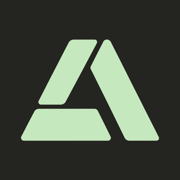
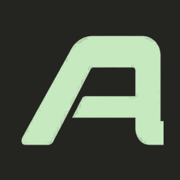
feat(site): replace branding with ANS Studio lettermark
Use the new ANS STUDIO lettermark in the desktop rail and footer,
switch to the compact ANS lettermark in the mobile bar, and recompose
the favicon and apple-touch-icon from the new A mark. Remove the
previous geometric-A assets and record the source files, crop, and
local verification in the promotion role docs.

Changed region(s): [[0.1111, 0.1944, 0.9167, 0.8056]]

diff --git a/site/en/index.html b/site/en/index.html
@@ -61,8 +61,10 @@
 
   <header class="rail">
     <a class="brand" href="#top" aria-label="ANS Studio, back to top">
-      <img src="../assets/ans-a-mint.png" alt="" width="512" height="512">
-      <span class="brand-word">ans</span>
+      <picture>
+        <source media="(max-width: 1023px)" srcset="../assets/ans-lettermark-mint.png">
+        <img src="../assets/ans-studio-lettermark-mint.png" alt="" width="649" height="240">
+      </picture>
     </a>
     <nav class="rail-nav" aria-label="Page navigation">
       <ul>
@@ -403,9 +405,9 @@
   <footer class="footer">
     <div class="wrap footer-grid">
       <div class="footer-brand">
-        <img src="../assets/ans-a-mint.png" alt="" width="512" height="512">
+        <img src="../assets/ans-studio-lettermark-mint.png" alt="" width="649" height="240">
         <div>
-          <p class="footer-name">ANS Studio · <a href="https://github.com/wangzhongren/ans-studio/blob/main/LICENSE" rel="noopener">MIT License</a></p>
+          <p class="footer-name"><a href="https://github.com/wangzhongren/ans-studio/blob/main/LICENSE" rel="noopener">MIT License</a></p>
           <p class="footer-en">An Autonomous Organization Runtime for AI Agents.</p>
         </div>
       </div>

diff --git a/site/index.html b/site/index.html
@@ -60,8 +60,10 @@
 
   <header class="rail">
     <a class="brand" href="#top" aria-label="ANS Studio，回到页面顶部">
-      <img src="assets/ans-a-mint.png" alt="" width="512" height="512">
-      <span class="brand-word">ans</span>
+      <picture>
+        <source media="(max-width: 1023px)" srcset="assets/ans-lettermark-mint.png">
+        <img src="assets/ans-studio-lettermark-mint.png" alt="" width="649" height="240">
+      </picture>
     </a>
     <nav class="rail-nav" aria-label="页面导航">
       <ul>
@@ -401,9 +403,9 @@
   <footer class="footer">
     <div class="wrap footer-grid">
       <div class="footer-brand">
-        <img src="assets/ans-a-mint.png" alt="" width="512" height="512">
+        <img src="assets/ans-studio-lettermark-mint.png" alt="" width="649" height="240">
         <div>
-          <p class="footer-name">ANS Studio · <a href="https://github.com/wangzhongren/ans-studio/blob/main/LICENSE" rel="noopener">MIT 许可证</a></p>
+          <p class="footer-name"><a href="https://github.com/wangzhongren/ans-studio/blob/main/LICENSE" rel="noopener">MIT 许可证</a></p>
           <p class="footer-en">An Autonomous Organization Runtime for AI Agents.</p>
         </div>
       </div>

diff --git a/site/styles.css b/site/styles.css
@@ -121,24 +121,22 @@ img {
 .brand {
   display: flex;
   align-items: center;
-  gap: 10px;
+  min-height: 44px;
   color: var(--text);
   text-decoration: none;
-  padding: 2px 6px;
+  padding: 0 10px;
+}
+
+.brand picture {
+  display: block;
 }
 
 .brand img {
   display: block;
-  width: 34px;
-  height: 34px;
-}
-
-.brand-word {
-  font-size: 21px;
-  font-weight: 600;
-  line-height: 1;
-  letter-spacing: 0.01em;
-  padding-bottom: 2px;
+  width: auto;
+  height: 38px;
+  max-width: 120px;
+  object-fit: contain;
 }
 
 .rail-nav {
@@ -1013,8 +1011,11 @@ h3 {
 }
 
 .footer-brand img {
-  width: 40px;
-  height: 40px;
+  display: block;
+  width: auto;
+  height: 42px;
+  max-width: 150px;
+  object-fit: contain;
 }
 
 .footer-name {
@@ -1084,12 +1085,8 @@ h3 {
   }
 
   .brand img {
-    width: 28px;
-    height: 28px;
-  }
-
-  .brand-word {
-    font-size: 18px;
+    height: 26px;
+    max-width: 112px;
   }
 
   .rail-nav {

diff --git a/角色卡/宣传/docs/feature/project-site.md b/角色卡/宣传/docs/feature/project-site.md
@@ -26,6 +26,9 @@ events:
   - date: "2026-10-21"
     kind: deployed
     summary: 品牌图标随 77c5143 部署上线；角色文档随 2983402 入库
+  - date: "2026-10-21"
+    kind: implemented
+    summary: 品牌位与 favicon 替换为 ANS STUDIO 字标；本地验证，未部署
 ---
 
 # 项目官网（GitHub Pages）
@@ -36,7 +39,7 @@ events:
 
 提供两个语言版本，共享同一套样式、脚本与素材，可互相切换：中文 `site/index.html`（`/`）与英文 `site/en/index.html`（`/en/`）。
 
-当前状态：中文站已部署上线（2026-10-21，协调方提交 `f87eb134` 并 push 触发部署，run `39541758607` 成功，线上页面与本地字节一致；发布事实见[变更记录](../change/2026-10-21_change_project-site.md)）。英文版、双语切换、hreflang 与双语 sitemap 也已由协调方提交并部署（commit `b00bc74`，run `39545903589` 成功；线上 `/` 与 `/en/` 均与本地字节一致，见[英文版变更记录](../change/2026-10-21_change_english-site.md)）。品牌图标已按客户 2026-10-21 提供的新 logo 替换为几何 A 并随 commit `77c5143` 部署上线（run `39546983969` 成功；见[品牌图标变更记录](../change/2026-10-21_change_logo-assets.md)）。角色文档已随提交 `2983402` 入库，品牌图标变更随 `77c5143` 入库。
+当前状态：中文站已部署上线（2026-10-21，协调方提交 `f87eb134` 并 push 触发部署，run `39541758607` 成功，线上页面与本地字节一致；发布事实见[变更记录](../change/2026-10-21_change_project-site.md)）。英文版、双语切换、hreflang 与双语 sitemap 也已由协调方提交并部署（commit `b00bc74`，run `39545903589` 成功；线上 `/` 与 `/en/` 均与本地字节一致，见[英文版变更记录](../change/2026-10-21_change_english-site.md)）。品牌图标先按客户 2026-10-21 的几何 A 替换并随 commit `77c5143` 部署上线（run `39546983969` 成功；见[几何 A 变更记录](../change/2026-10-21_change_logo-assets.md)）；当日稍后客户再次更换图标，站点品牌位已改为 **ANS STUDIO 字标**（桌面完整字标、移动紧凑 ANS、favicon 取自字标 A；本地验证，尚未部署，线上仍为几何 A 版；见[字标变更记录](../change/2026-10-21_change_lettermark-logo.md)）。角色文档已随提交 `2983402` 入库，几何 A 变更随 `77c5143` 入库。
 
 ## 页面结构
 
@@ -72,17 +75,18 @@ flowchart TD
 | `site/styles.css` | 颜色/字体 token、账本布局、语言切换、响应式、加载编排、reduced-motion |
 | `site/app.js` | 仅导航高亮；异常捕获，不影响内容 |
 | `site/assets/desktop-intent-confirm.png` | 真实桌面截图（1360×980，原图复制） |
-| `site/assets/ans-a-mint.png` | 薄荷绿几何 A 品牌标识 512×512（账本栏与页脚） |
-| `site/assets/ans-a-graphite.png` | 石墨几何 A 512×512；站点未引用，保留给浅色场景/未来使用 |
-| `site/assets/favicon.png` / `apple-touch-icon.png` | 石墨底薄荷绿 A 的 64px favicon 与 180px 触屏图标（浅/深浏览器栏均可辨） |
+| `site/assets/ans-studio-lettermark-mint.png` | ANS STUDIO 完整薄荷字标 649×240（桌面账本栏 38px、页脚 42px） |
+| `site/assets/ans-lettermark-mint.png` | 紧凑 ANS 薄荷字标 572×160（移动顶栏 26px，`<picture>` 自动切换） |
+| `site/assets/ans-studio-lettermark-graphite.png` / `ans-studio-lettermark-white.png` | 同形石墨/白色字标 649×240；站点未引用，保留给浅色/未来场景 |
+| `site/assets/favicon.png` / `apple-touch-icon.png` | 石墨底 + 薄荷 A（取自字标）的 64px favicon 与 180px 触屏图标 |
 | `site/robots.txt` / `sitemap.xml` / `.nojekyll` | 抓取（双语 sitemap 含 xhtml alternate）与 Pages 约定 |
 
 ## 品牌资产与如何更换 logo
 
-- 源文件：`app/desktop/assets/ans-geometric-a-mint.png`（薄荷绿，透明底，1254×1254）与 `ans-geometric-a-graphite.png`（石墨版，与 `output/branding/ans-studio-icon-graphite.png` 字节相同）。两者只读引用，不复制回源目录。
-- 站点使用：深色界面用薄荷 A（`.brand img` 桌面 34px / 移动 28px，`.footer-brand img` 40px，均无 `border-radius`）；石墨 A 保留给浅色场景/未来使用，当前未被引用。
-- 生成方式：以图形中心裁 1100×1100（源图 offset x=77、y=110，alpha 边界 x110–1144 / y282–1039），等比缩放到 512×512；favicon 为 512 画布 `#1b1b18` 底 + 薄荷 A 420×420 居中（约 9% 内边距），再缩到 64 与 180。可用 Electron `nativeImage.crop/resize` 或 CoreGraphics 实现，**不要拉伸**。
-- 替换步骤：放入新源图 → 按上述参数生成 `ans-a-mint.png`、`ans-a-graphite.png`、`favicon.png`、`apple-touch-icon.png` → 两页的 `.brand img`、`.footer-brand img` 与 `<link rel="icon" / apple-touch-icon>` 保持指向同名文件即可 → 重新截图核对深浅底观感与 16px 可辨性。Role-first 印章的括号符号与截图四角括号是“边界”的结构符号，不是品牌图标，替换 logo 时不要动。
+- 当前品牌：**ANS STUDIO 字标**（2026-10-21 第二次替换）。源文件为 `app/desktop/assets/ans-studio-lettermark-mint.png`（完整横版，含 STUDIO 小字）、`ans-lettermark-mint.png`（仅 ANS 紧凑版），以及同形 graphite/white 版本。源文件只读，不复制回源目录。
+- 站点使用：桌面账本栏与页脚用完整薄荷字标（`.brand img` 高 38px、`.footer-brand img` 高 42px，宽度按比例），移动顶栏通过 `<picture><source media="(max-width: 1023px)">` 切换为紧凑 ANS（高 26px）；页脚文字只保留「MIT 许可证」与英文定位行，避免与字标重复。石墨/白色字标保留给浅色/未来场景，当前未被引用。
+- 生成方式：按 alpha 边界裁掉透明留白（完整字标 864×312，加 6px 内边距）等比缩放到高 240 → 649×240；紧凑字标缩放到高 160 → 572×160。favicon 从紧凑字标取 A 字形（字标中 A 与 N 相连，裁切右缘收到 A 本体 x≈381），石墨底 `#1b1b18` + A 420px 宽居中，输出 64 与 180。**不要拉伸**；可用 Electron `nativeImage.crop/resize` 或 CoreGraphics 实现。
+- 替换步骤：放入新源图 → 按上述参数生成 `ans-studio-lettermark-mint.png`、`ans-lettermark-mint.png`、`favicon.png`、`apple-touch-icon.png`（石墨/白色版按需）→ 两页 `.brand` 的 `<picture>`/`<img>`、`.footer-brand img` 与 `<link rel="icon" / apple-touch-icon>` 保持指向同名文件 → 重新截图核对桌面完整字标（STUDIO 可辨）、移动紧凑字标与 favicon 深浅底观感。Role-first 印章的括号符号与截图四角括号是“边界”的结构符号，不是品牌图标，替换 logo 时不要动。
 
 ## 如何本地预览
 
@@ -132,7 +136,8 @@ python3 -m http.server 8765 --directory site
 ## 已知限制
 
 - 发布由客户/协调方执行：本角色不自行 push、运行工作流或改仓库设置；角色文档已随 `2983402` 入库。
-- favicon 未在真实浏览器标签栏/iOS 主屏实测；品牌位尺寸（34/28/40px）为视觉判断，可按需微调。
+- 2026-10-21 字标替换尚未部署，线上仍为几何 A 版；部署后需复查字标与 favicon。
+- favicon 未在真实浏览器标签栏/iOS 主屏实测；字标品牌位尺寸（桌面 38px / 移动 26px / 页脚 42px）为视觉判断，可按需微调。
 - 双语站点已上线且与本地字节一致（zh `0c83fd8a…`、en `81fadf15…`）；后续改动仍由客户/协调方 push 触发部署。
 - 运行包尚未签名或公证；站点已如实警示，不代替 GitHub Release 的 SHA256 校验。
 - Google Fonts 走外链，被墙时回退系统字体（PingFang SC / 微软雅黑等），版面与可读性保持；无其他外部 JS。
@@ -150,3 +155,4 @@ python3 -m http.server 8765 --directory site
 | 2026-10-21 | 发布 | deployed | 协调方提交 `b00bc74` 并部署英文版与双语导航；线上 `/` 与 `/en/` SHA-256 与本地一致（run `39545903589`） | [英文版变更记录·发布记录](../change/2026-10-21_change_english-site.md) |
 | 2026-10-21 | 变更 | implemented-unverified | 品牌图标替换为几何 A（薄荷绿品牌位、石墨底 favicon、apple-touch-icon）；本地验证通过 | [品牌图标变更记录](../change/2026-10-21_change_logo-assets.md)、[证据](../change/2026-10-21_logo-evidence/) |
 | 2026-10-21 | 发布 | deployed | 协调方提交 `77c5143` 并部署新品牌图标；线上新资产 200、旧 `ans-seal.png` 404，两页 SHA-256 与本地一致（run `39546983969`） | [品牌图标变更记录·发布记录](../change/2026-10-21_change_logo-assets.md) |
+| 2026-10-21 | 变更 | implemented-unverified | 品牌位与 favicon 替换为 ANS STUDIO 字标（桌面完整字标、移动紧凑 ANS、石墨底 A favicon）；本地验证通过，未部署 | [字标变更记录](../change/2026-10-21_change_lettermark-logo.md)、[证据](../change/2026-10-21_lettermark-evidence/) |

diff --git a/角色卡/宣传/docs/change/2026-10-21_change_lettermark-logo.md b/角色卡/宣传/docs/change/2026-10-21_change_lettermark-logo.md
@@ -1,0 +1,104 @@
+---
+id: lettermark-logo
+type: change
+title: 站点品牌位与 favicon 替换为 ANS Studio 字标
+created: "2026-10-21"
+updated: "2026-10-21"
+timezone: Asia/Shanghai
+status: implemented-unverified
+related: [project-site]
+events:
+  - date: "2026-10-21"
+    kind: created
+    summary: 按客户 13:14 下发的字标替换品牌位、favicon 与 apple-touch-icon
+  - date: "2026-10-21"
+    kind: implemented
+    summary: 本地截图、资产、结构与视口检查通过；未推送、未部署
+---
+
+# 站点品牌位与 favicon 替换为 ANS Studio 字标
+
+客户 2026-10-21 再次更换图标（「图标又换了，重新换一下」）。站点品牌位从上一版几何 A 换成新的 **ANS STUDIO 字标**：桌面账本栏与页脚用 13:14 的完整横版字标，移动顶栏用 13:12 的紧凑 `ANS` 字标；favicon 与 apple-touch-icon 从紧凑字标中取 A 字形，继续「石墨底 + 薄荷 A」方案。上一版 `ans-a-mint.png` / `ans-a-graphite.png` 已删除；Role-first 印章括号与截图四角括号保持不变。
+
+**仅本地完成**：线上仍是 `77c5143` 部署的几何 A 版本；本次字标改动**未推送、未部署**。角色文档此前已随 `2983402` / `77c5143` 入库，本轮字标变更记录与站点改动尚未提交。
+
+## 源文件
+
+| 组 | 源（只读） | SHA-256 前缀 | 说明 |
+| --- | --- | --- | --- |
+| 13:14 主标志 | `app/desktop/assets/ans-studio-lettermark-mint.png` | `15f34d64…` | ANS + 小字 STUDIO，1024×1024 透明底 |
+| 13:14 | `ans-studio-lettermark-graphite.png` | `c3dc8c74…` | 同形石墨版 |
+| 13:14 | `ans-studio-lettermark-white.png` | `d00ae2cf…` | 同形白色版 |
+| 13:12 紧凑版 | `ans-lettermark-mint.png` | `de248877…` | 仅 ANS，紧凑场景与 favicon 取形来源 |
+
+实测 alpha 边界（阈值 α>2）：完整字标 x 80–943、y 357–668（864×312，约 2.77:1），平均色 mint ≈ rgb(199,233,192)、graphite ≈ rgb(23,26,22)、white = 255；紧凑字标 x 80–943、y 395–627（864×233，约 3.71:1）。
+
+## 裁切、产物与使用位置
+
+- 完整字标：按 alpha 边界裁掉透明留白（加 6px 内边距），等比缩放到高 240 → `site/assets/ans-studio-lettermark-mint.png`（649×240，`c065a5fb…`）；石墨版 `ans-studio-lettermark-graphite.png`（`055e087e…`）与白色版 `ans-studio-lettermark-white.png`（`c166b7f4…`）同尺寸保留，站点未引用（见下）。
+- 紧凑字标：裁切后缩放到高 160 → `site/assets/ans-lettermark-mint.png`（572×160，`73c4e933…`）。
+- 使用位置：
+  - 桌面账本栏 `.brand`：完整薄荷字标，CSS 高 **38px**（宽约 103px），替代此前「图标 + 独立 `ans` 文字」组合；`<span class="brand-word">` 已移除。
+  - 移动顶栏：`<picture><source media="(max-width: 1023px)" srcset="…ans-lettermark-mint.png">`，同一品牌链接内自动切换为紧凑 ANS，CSS 高 **26px**（宽约 97px）。
+  - 页脚 `.footer-brand`：完整字标，高 **42px**（宽约 114px）；文字从「ANS Studio · MIT 许可证」简化为「MIT 许可证」+ 原英文定位行，避免与字标重复。
+- 未引用但保留：石墨版给浅色场景/未来使用（白底可见），白色版给深色横幅等未来场景；两者均已在文档说明，不参与当前页面。
+- 图形不做拉伸，全部按原始比例缩放；字标宽度由高度与比例自然决定，CSS 加 `object-fit: contain` 兜底。
+
+## favicon / apple-touch-icon 取形
+
+1. 先按任务建议试裁 A 区域（x 60–400、y 350–650）：由于新字标中 **A 与 N 相连**（列投影只有 N/S 之间有明显空隙，连通域分析中 A+N 为同一组件），该裁法在右侧带入 N 的竖笔残片，64px 下呈「A|」，观感不合格。
+2. 放大核对接缝后，把裁切右缘收到 A 本体右缘（x 70–381、y 385–636，312×252），得到干净的 A 字形；512 画布填 `#1b1b18`，A 缩放为 420px 宽（约 82%）居中，再高质量输出 **64×64** `favicon.png`（`d8466861…`）与 **180×180** `apple-touch-icon.png`（`26741063…`）。
+3. 与「完整 ANS 字标缩到 tile 80–85%」方案对比：完整 ANS 在 512/64 下清晰，但 16px 时三字母糊成一块；A 字形在 16px 仍可辨，因此选 A 方案。取舍已用对比图验证并记录在证据中。
+
+## CSS 调整
+
+- `.brand`：`min-height: 44px`、`padding: 0 10px`（与导航文字左对齐），去掉旧的方形图标尺寸与圆角规则；`.brand picture` 为块级，`.brand img` 用 `height/width:auto/max-width/object-fit`。
+- 移动断点：紧凑字标高 26px、最大宽 112px；360px 顶栏（字标 + 语言切换 + `v1.4.0` + GitHub）实测不溢出。
+- `.footer-brand img`：高 42px、宽 auto、最大宽 150px、无圆角；页脚文字块保留英文定位行。
+
+## 验证（真实执行）
+
+```bash
+python3 -m http.server 8765 --directory site
+curl -sS -o /dev/null -w '%{http_code}' http://127.0.0.1:8765/                          # 200
+curl -sS -o /dev/null -w '%{http_code}' http://127.0.0.1:8765/en/                       # 200
+curl -sS -o /dev/null -w '%{http_code}' http://127.0.0.1:8765/assets/ans-studio-lettermark-mint.png  # 200
+curl -sS -o /dev/null -w '%{http_code}' http://127.0.0.1:8765/assets/ans-lettermark-mint.png         # 200
+curl -sS -o /dev/null -w '%{http_code}' http://127.0.0.1:8765/assets/favicon.png         # 200
+curl -sS -o /dev/null -w '%{http_code}' http://127.0.0.1:8765/assets/apple-touch-icon.png # 200
+```
+
+截图（均已用 Read 实看；入档 `2026-10-21_lettermark-evidence/`）：
+
+| 截图 | 观察 |
+| --- | --- |
+| [desktop-hero-zh-1440x1000.png](2026-10-21_lettermark-evidence/desktop-hero-zh-1440x1000.png) | 完整字标在 168px 账本栏内留足呼吸；ANS 清晰、STUDIO 在 38px 下可辨（5 倍放大图 `brand-zoom-5x.png` 确认）；与导航文字左对齐。 |
+| [desktop-hero-en-1440x1000.png](2026-10-21_lettermark-evidence/desktop-hero-en-1440x1000.png) | 英文页同样成立；语言切换/导航未受影响。 |
+| [mobile-hero-zh-360x1000.png](2026-10-21_lettermark-evidence/mobile-hero-zh-360x1000.png) | 紧凑 ANS 字标 + 中文/English + v1.4.0 + GitHub 一行放下。 |
+| [mobile-hero-en-360x1000.png](2026-10-21_lettermark-evidence/mobile-hero-en-360x1000.png) | 英文页同上。 |
+| [favicon-light-dark-test.png](2026-10-21_lettermark-evidence/favicon-light-dark-test.png) | 64/32/16px 在白色与 #202124 上都可见，16px 仍能认出 A；64 石墨字标/白色字标的保留观感也一并展示。 |
+| [desktop-footer-brand-zh.png](2026-10-21_lettermark-evidence/desktop-footer-brand-zh.png) / [desktop-footer-brand-en.png](2026-10-21_lettermark-evidence/desktop-footer-brand-en.png) | 42px 字标与 MIT/英文定位行层级清楚，不再重复 ANS Studio 文案。 |
+| [brand-zoom-5x.png](2026-10-21_lettermark-evidence/brand-zoom-5x.png) | 桌面品牌位 5 倍放大：STUDIO 字母可辨，未糊成块。 |
+
+| 检查 | 方法 | 结果 |
+| --- | --- | --- |
+| 结构 | 两页扫描 | 无缺失本地引用；无重复 id；图片均有 alt；20 个外链 `rel="noopener"` 无遗漏；各 1 个 `<picture>` |
+| 资产尺寸 | `sips` | 完整字标 649×240、紧凑 572×160、favicon 64、apple-touch 180；截图仍 1360×980 |
+| 引用清理 | 对照目录与引用 | 旧 `ans-a-mint.png` / `ans-a-graphite.png` 已删除；仅石墨/白色完整字标未引用（有意保留） |
+| 横向溢出 | CDP 1440/390/360 两页 | `scrollWidth == innerWidth`，越界元素 0 |
+| 移动切换 | 360 截图 | `<picture>` 生效：桌面完整字标、移动仅 ANS |
+
+## 自我批评与修正
+
+1. A 取形第一次按建议范围裁切带入 N 竖笔残片（“A|”），64px 下明显；放大接缝后把右缘收到 A 本体，得到干净字形，并在文档记录原因。
+2. 完整字标含 STUDIO 小字，一度担心 38px 下糊掉；5 倍放大确认字母仍可辨，保留完整字标不降级为紧凑版；移动端才用紧凑 ANS。
+3. 品牌位最初左缘比导航文字靠左 4px，补 `padding: 0 10px` 对齐；页脚去掉重复的“ANS Studio”文字，改为 MIT + 定位行，层级更干净。
+4. 新字标是横版，旧规则里的方形 `border-radius` 与固定 34/28/40px 尺寸全部移除，改为高度 + 等比宽度 + `object-fit: contain`。
+
+## 未做与限制
+
+- **未推送、未部署**：线上仍为 `77c5143` 的几何 A 图标；本轮字标变更与文档未提交。部署由客户/协调方执行。
+- favicon 未在真实浏览器标签栏/iOS 主屏实测；浅/深底与 16/32/64px 为本地模拟图检查。
+- 品牌位尺寸（38/26/42px）为视觉判断；STUDIO 在 1x 屏幕上较小但可辨，2x 屏幕更清晰。
+- favicon 的 A 是从 ANS 字标中裁出的字形（字标中 A/N 相连），不是独立提供的 A 图标；裁切范围与取舍已记录。
+- 外链、事实链接、版本号未动；Role-first 印章与截图四角括号未替换。

diff --git a/角色卡/宣传/memo.md b/角色卡/宣传/memo.md
@@ -13,3 +13,4 @@
 - 2026-10-21 英文版发布（协调方执行）：提交 `b00bc74`（main，`feat(site): add English site and bilingual navigation`，仅 4 个站点文件）并部署成功——run `39545903589` / job `119043890223`，success，34 秒（12:46 Asia/Shanghai）；线上 `/`（`dfd7786b…`）与 `/en/`（`bc6739fa…`）的 HTML SHA-256 均与本地一致，共享资源 200，线上 hreflang 与中文页 English 切换已生效。角色文档后已随提交 2983402 入库。
 - 2026-10-21 品牌图标：按客户新 logo 替换为透明几何 A——品牌位/页脚用薄荷版（512，桌面 34px / 移动 28px / 页脚 40px，去圆角），favicon 为 512 石墨底 `#1b1b18` + 薄荷 A 420 居中后缩到 64，新增 180 apple-touch-icon；`ans-seal.png` 已删，石墨 A（512）未引用但保留给浅色场景。裁切参数 1100×1100 @ (77,110)。两页 1440/390/360 无溢出，favicon 浅/深底与 16px 可辨性已看图；首轮完成时仅本地（随后由协调方发布，见下条）。证据见 docs/change/2026-10-21_logo-evidence/。
 - 2026-10-21 品牌图标发布（协调方执行）：提交 `77c5143`（main，`feat(site): replace brand logo with geometric A mark`，含 site/** 与角色文档）并部署成功——run `39546983969` / job `119047268376`，success，19 秒（12:59 Asia/Shanghai）；线上新资产均 200（mint 33645 / graphite 117834 / favicon 2406 / apple-touch 7777），旧 `ans-seal.png` 404；`/`（`0c83fd8a…`）与 `/en/`（`81fadf15…`）HTML SHA-256 与本地一致。角色文档已随 `2983402` 入库，品牌图标变更随 `77c5143` 入库。
+- 2026-10-21 字标替换（本地）：按客户 13:14 的 ans-studio-lettermark-* 与 13:12 的 ans-lettermark-* 替换——桌面账本栏/页脚用完整薄荷字标（38/42px 高，649×240），移动顶栏用紧凑 ANS（26px，572×160，`<picture>` 切换），页脚文字简化为 MIT + 英文定位行；favicon 从紧凑字标取 A（A/N 相连，裁到 A 本体右缘 x≈381），石墨底 + A 420px 合成后输出 64/180；石墨与白色字标保留未引用。两页 1440/390/360 无溢出，STUDIO 在 38px 下可辨（5 倍放大核对）。仅本地，未推送/未部署（线上仍为几何 A 版）。证据见 docs/change/2026-10-21_lettermark-evidence/。

diff --git a/角色卡/宣传/feature-map.md b/角色卡/宣传/feature-map.md
@@ -10,7 +10,7 @@
 | 英文官网（`/en/`） | 与中文页同结构的英文单页；共享样式、脚本与素材，双向语言切换、hreflang 与双语 sitemap | 已部署：<https://wangzhongren.github.io/ans-studio/en/>（2026-10-21，协调方提交 `b00bc74` 并发布） | [当前说明](docs/feature/project-site.md#双语与语言切换)、[变更记录](docs/change/2026-10-21_change_english-site.md)、[证据](docs/change/2026-10-21_english-site-evidence/) |
 | 官网视觉与信息架构 | 石墨账本式布局、Role-first 印章、真实截图、内容事实映射与验收口径 | 已定稿（随首轮实现） | [设计记录](docs/design/2026-10-21_design_project-site.md) |
 | Pages 发布工作流 | push main 的 `site/**` 变更时构建并部署 GitHub Pages，支持手动触发 | 已创建并成功运行（run `39541758607`，success，19 秒；由 push 触发） | [部署流程](docs/feature/project-site.md#部署流程) |
-| 品牌图标与 favicon | 薄荷绿/石墨几何 A、石墨底 favicon、apple-touch-icon；Role-first 印章与截图四角括号保持不变 | 已部署：<https://wangzhongren.github.io/ans-studio/>（2026-10-21，协调方提交 `77c5143` 并发布；旧 `ans-seal.png` 已 404） | [变更记录](docs/change/2026-10-21_change_logo-assets.md)、[证据](docs/change/2026-10-21_logo-evidence/) |
+| 品牌图标与 favicon | ANS STUDIO 字标（桌面完整、移动紧凑 ANS）、字标 A 的 favicon/apple-touch-icon；Role-first 印章与截图四角括号保持不变 | 已实现，本地验证通过；未推送、未部署（线上仍为几何 A 版） | [字标变更记录](docs/change/2026-10-21_change_lettermark-logo.md)、[证据](docs/change/2026-10-21_lettermark-evidence/)、[上一版几何 A](docs/change/2026-10-21_change_logo-assets.md) |
 | 首轮交付与验证证据 | 文件清单、定位更新、截图、链接/响应式/对比度检查、未做事项 | 已记录 | [变更记录](docs/change/2026-10-21_change_project-site.md)、[证据目录](docs/change/2026-10-21_project-site-evidence/) |
 | 职责与接口面 | 职责、输入/输出、文件位置；接口不适用及可核验理由 | 已建立 | [functional-description](functional-description.md)、[api-spec](api-spec.md) |
 

diff --git a/角色卡/宣传/docs/design/2026-10-21_design_project-site.md b/角色卡/宣传/docs/design/2026-10-21_design_project-site.md
@@ -148,6 +148,10 @@ events:
 
 客户提供几何 A 标志后，站点品牌位从白底「括号-横杠」方块换成透明几何 A：深色界面用薄荷版（`--mint` 对 `#151512` 约 14:1，30px 左右仍可辨认），浅色场景保留石墨版文件但站点不引用。品牌位尺寸桌面 34px、移动 28px、页脚 40px，均去掉圆角；透明图形不再需要底板。favicon 用自带石墨底（`#1b1b18`）+ 薄荷 A 的合成图标，保证浅色/深色浏览器栏都清楚。Role-first 印章的括号符号与截图四角括号是“边界”的结构符号，不随品牌图标替换；这条区分在本次之后继续有效。
 
+## 品牌字标（2026-10-21 第二次替换）
+
+客户当日再次更换为 ANS STUDIO 字标。桌面账本栏与页脚改用完整横版字标（38/42px 高，宽度按约 2.77:1 自适应），移动顶栏用仅 ANS 的紧凑版（26px），通过 `<picture>` 在 1024px 断点切换；移除独立 `ans` 文字与方形图标。字标含 STUDIO 小字，38px 下在 1x 屏幕仍可辨（5 倍放大核对），不降级为紧凑版。页脚文字只保留 MIT 与英文定位行，避免与字标重复。favicon 仍用石墨底 + 薄荷 A：新字标中 A/N 相连，取 A 时把右缘收到 A 本体，16px 下比完整 ANS 更可辨。Role-first 印章与截图四角括号不变。
+
 ## 实现后的自审与修订
 
 首轮实现后按截图自审，修订记录见[变更文档](../change/2026-10-21_change_project-site.md)。要点：修复移动端 grid 轨道被 nowrap 示例撑开的溢出；用不可断行片段修正 H1/H2 的中文拆词；移动端 H1 降一档；角色描述启用 `text-wrap: pretty` 消除孤字；示例在窄屏改为换行；导航高亮改为「阅读带交集高度」判定；客户定位追加后重排首屏层级（英文定位行 → Role-first 印章 → 中文 H1）。

diff --git a/角色卡/宣传/functional-description.md b/角色卡/宣传/functional-description.md
@@ -28,9 +28,10 @@ site/
   styles.css                     视觉 token、账本式布局、响应式与一次性加载编排
   app.js                         滚动监听（IntersectionObserver）为左侧导航加 aria-current；内容不依赖脚本
   assets/desktop-intent-confirm.png   真实桌面截图（原图 1360×980）
-  assets/ans-a-mint.png          品牌标识：薄荷绿几何 A 512×512（账本栏与页脚）
-  assets/ans-a-graphite.png      石墨版几何 A 512×512（站点未引用，保留给浅色场景/未来使用）
-  assets/favicon.png             石墨底薄荷绿 A 的 64px favicon
+  assets/ans-studio-lettermark-mint.png   ANS STUDIO 完整字标 649×240（桌面账本栏与页脚）
+  assets/ans-lettermark-mint.png          紧凑 ANS 字标 572×160（移动顶栏）
+  assets/ans-studio-lettermark-graphite.png / -white.png  同形石墨/白色字标（未引用，保留）
+  assets/favicon.png             石墨底 + 薄荷 A（取自字标）的 64px favicon
   assets/apple-touch-icon.png    180×180 触屏图标
   robots.txt / sitemap.xml / .nojekyll
 .github/workflows/pages.yml      Pages 发布工作流
